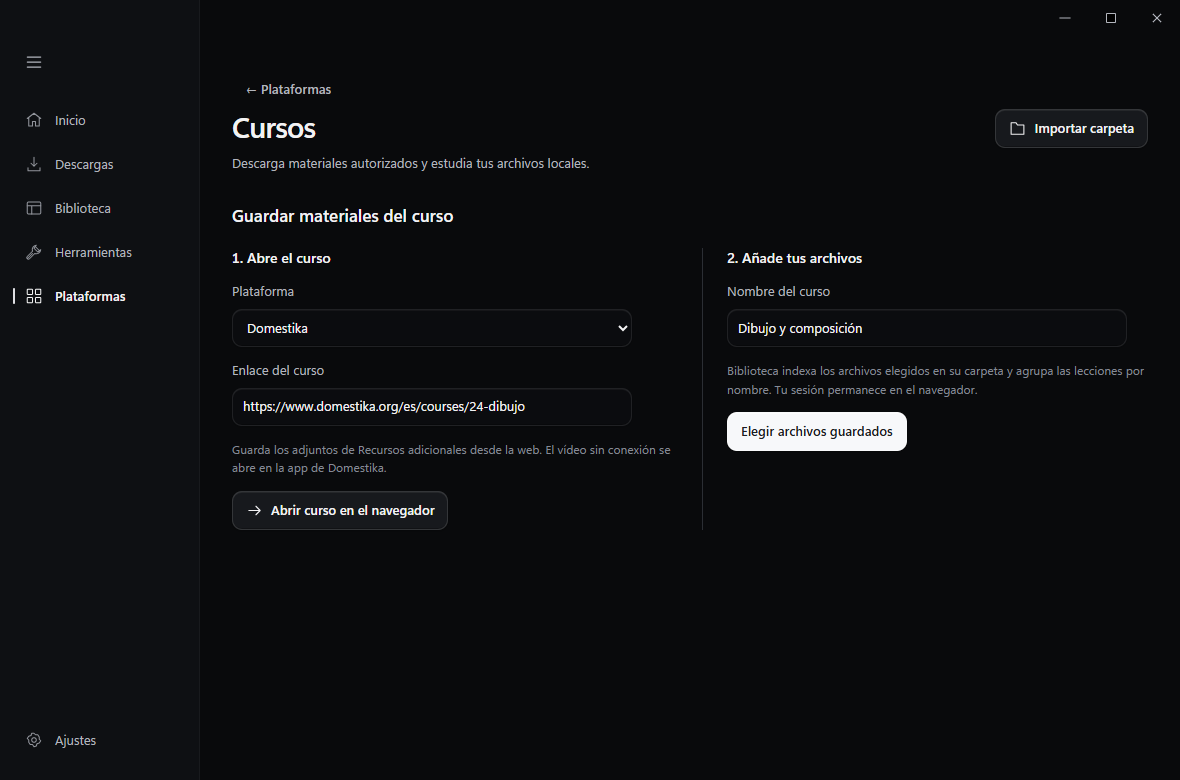
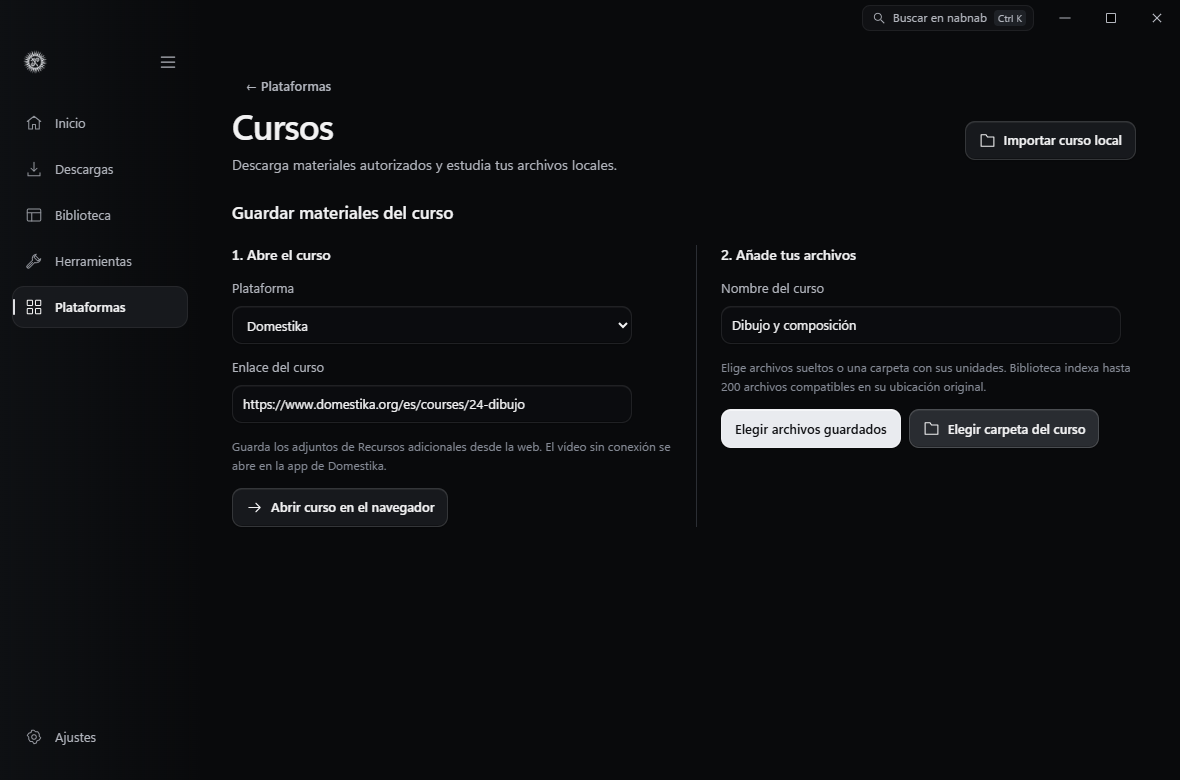
Import folders into linked courses

diff --git a/src/courses-ui.ts b/src/courses-ui.ts
@@ -121,10 +121,10 @@ export function createCoursesController(hooks: CourseHooks) {
     }
   }
 
-  async function importMaterials(source: BrowserCourseProvider, url: string, title: string) {
+  async function importMaterials(source: BrowserCourseProvider, url: string, title: string, mode: "files" | "folder" = "files") {
     let opened = false;
     await perform(async () => {
-      const course = await hooks.command<Course | null>("import_course_materials", { provider: source, url, title });
+      const course = await hooks.command<Course | null>("import_course_materials", { provider: source, url, title, folder: mode === "folder" });
       if (!course) return false;
       if (courseId !== course.id) {
         lessonId = course.sections[0]?.lessons[0]?.id ?? null;
@@ -135,7 +135,8 @@ export function createCoursesController(hooks: CourseHooks) {
       hooks.notify(t("Materiales añadidos al curso.", "Materials added to the course."), "success");
     });
     if (opened) focusCourseHeading();
-    else document.getElementById(courseId ? "course-add-materials" : "course-browser-import")?.focus({ preventScroll: true });
+    else document.getElementById(mode === "folder" ? "course-add-folder"
+      : courseId ? "course-add-materials" : "course-browser-import")?.focus({ preventScroll: true });
   }
 
   function browserForm(source: BrowserCourseProvider, platformField: string, linkField: string): string {
@@ -151,8 +152,11 @@ export function createCoursesController(hooks: CourseHooks) {
         <section>
           <h3>${t("2. Añade tus archivos", "2. Add your files")}</h3>
           <label>${t("Nombre del curso", "Course name")}<input id="course-browser-title" maxlength="240" required value="${h(browserTitle)}" autocomplete="off"></label>
-          <p class="field-note">${t("Biblioteca indexa los archivos elegidos en su carpeta y agrupa las lecciones por nombre. Tu sesión permanece en el navegador.", "Library indexes selected files in place and groups lessons by name. Your session stays in the browser.")}</p>
-          <button type="submit" id="course-browser-import" class="button primary" ${busy ? "disabled" : ""}>${busy ? t("Preparando…", "Preparing…") : t("Elegir archivos guardados", "Choose saved files")}</button>
+          <p class="field-note">${t("Elige archivos sueltos o una carpeta con sus unidades. Biblioteca indexa hasta 200 archivos compatibles en su ubicación original.", "Choose individual files or a folder with its units. Library indexes up to 200 supported files in place.")}</p>
+          <div class="button-group">
+            <button type="submit" id="course-browser-import" class="button primary" ${busy ? "disabled" : ""}>${busy ? t("Preparando…", "Preparing…") : t("Elegir archivos guardados", "Choose saved files")}</button>
+            ${action("course-add-folder", t("Elegir carpeta del curso", "Choose course folder"), "folder", "secondary", `id="course-add-folder" ${busy ? "disabled" : ""}`)}
+          </div>
         </section>
       </div>
     </form>`;
@@ -175,7 +179,7 @@ export function createCoursesController(hooks: CourseHooks) {
     const course = current();
     const platformField = `<label><span id="course-platform-label">${t("Plataforma", "Platform")}</span><select id="course-provider" aria-labelledby="course-platform-label">${courseProviders.map(([id, name]) => option(id, name, provider)).join("")}</select></label>`;
     const linkField = `<label>${t("Enlace del curso", "Course URL")}<input id="course-url" type="url" required value="${h(input)}" placeholder="https://…" autocomplete="off"></label>`;
-    if (!course) return `<div class="page-heading"><div><h1 id="course-heading" tabindex="-1">${t("Cursos", "Courses")}</h1><p>${t("Descarga materiales autorizados y estudia tus archivos locales.", "Download authorized materials and study your local files.")}</p></div>${action("course-import", t("Importar carpeta", "Import folder"), "folder", isBrowserProvider(provider) ? "secondary" : "primary", busy ? "disabled" : "")}</div>
+    if (!course) return `<div class="page-heading"><div><h1 id="course-heading" tabindex="-1">${t("Cursos", "Courses")}</h1><p>${t("Descarga materiales autorizados y estudia tus archivos locales.", "Download authorized materials and study your local files.")}</p></div>${action("course-import", t("Importar curso local", "Import local course"), "folder", isBrowserProvider(provider) ? "secondary" : "primary", busy ? "disabled" : "")}</div>
       ${isBrowserProvider(provider) ? browserForm(provider, platformField, linkField) : `<form id="course-open-online" class="settings-form" aria-busy="${busy}"><h2>${t("Abrir un curso con acceso autorizado", "Open an authorized course")}</h2>${platformField}${linkField}${provider !== "udemy" ? `<div class="form-grid"><label>${t("ID numérico del curso o producto", "Numeric course or product ID")}<input id="course-product-id" inputmode="numeric" required value="${h(productId)}"></label>${provider === "hotmart" ? `<label>${t("Identificador del club, slug", "Club identifier, slug")}<input id="course-slug" required value="${h(slug)}"></label>` : ""}</div>` : ""}<div class="form-grid"><label>${t("Máximo de lecciones a explorar", "Lesson exploration limit")}<input id="course-limit" type="number" min="1" max="1000" value="${limit}"></label><div class="button-group"><button type="submit" class="button secondary" ${busy ? "disabled" : ""}>${busy ? t("Explorando…", "Exploring…") : t("Explorar con mi sesión", "Explore with my session")}</button></div></div><p class="field-note">${provider === "udemy" ? t("Importa tu sesión en Ajustes.", "Import your session in Settings.") : t("Conecta un token de alumno de esta plataforma. El ID y el slug se encuentran en el enlace o los datos del curso.", "Connect a student token for this platform. The ID and slug are in the course link or course data.")} ${t("Solo se ofrecen archivos con una ruta de descarga autorizada. Reproducir una lección no implica permiso para guardarla.", "Only materials with an authorized download route are offered. Playback access does not imply permission to save a lesson.")}</p></form>`}
       ${provider === "hotmart" || provider === "kiwify" ? `<form id="course-token" class="settings-form"><h2>${t("Conexión de alumno", "Student connection")} · ${h(provider)}</h2><label>${t("Token de acceso autorizado", "Authorized access token")}<input id="course-token-secret" type="password" required autocomplete="off"></label><p class="field-note">${t("Se protege localmente. No se publica ni se transfiere a otra plataforma. La conexión no descarga contenido por sí sola.", "Stored protected locally. It is not published or sent to another platform. Connecting does not download content.")}</p><div class="button-group"><button type="submit" class="button secondary" ${busy ? "disabled" : ""}>${t("Guardar conexión", "Save connection")}</button>${action("course-token-remove", t("Eliminar conexión", "Remove connection"), undefined, "quiet", busy ? "disabled" : "")}</div></form>` : ""}
       ${courses.length ? `<div class="source-list">${courses.map(course => `<article class="source-row"><button class="media-open" data-action="course-open" data-id="${h(course.id)}"><span class="media-info"><strong>${h(course.title)}</strong><span>${h(course.provider === "local" ? t("Carpeta local", "Local folder") : courseProviderName(course.provider))} · ${lessonCount(course.sections.flatMap(section => section.lessons).length)}</span></span>${icon("arrow")}</button></article>`).join("")}</div>` : isBrowserProvider(provider) ? "" : `<div class="empty-state">${icon("library")}<h2>${t("Tu primer curso", "Your first course")}</h2><p>${t("Importa una carpeta con clases legítimamente guardadas o abre un curso al que tengas acceso.", "Import a folder of legitimately saved lessons or open a course you can access.")}</p></div>`}`;
@@ -185,7 +189,7 @@ export function createCoursesController(hooks: CourseHooks) {
     const lessons = course.sections.flatMap(section => section.lessons);
     const item = lessonMedia(lesson);
     const queueable = course.sections.flatMap(section => section.lessons).flatMap(lesson => lesson.assets).filter(asset => selected.has(asset.id) && available(asset));
-    return `<div class="page-heading"><div>${action("course-back", t("Todos los cursos", "All courses"), undefined, "quiet")}<h1 id="course-heading" tabindex="-1">${h(course.title)}</h1><p>${h(course.provider === "local" ? t("Archivos locales", "Local files") : courseProviderName(course.provider))} · ${lessonCount(lessons.length)}</p></div>${browserAssisted ? `<div class="button-group">${action("course-browser-open", t("Abrir curso en el navegador", "Open course in browser"), "arrow", "quiet", busy ? "disabled" : "")}${action("course-add-materials", t("Añadir archivos guardados", "Add saved files"), "add", "primary", `id="course-add-materials" ${busy ? "disabled" : ""}`)}</div>` : course.url ? action("course-refresh", t("Actualizar materiales", "Refresh materials"), "retry", "quiet", busy ? "disabled" : "") : ""}</div>
+    return `<div class="page-heading"><div>${action("course-back", t("Todos los cursos", "All courses"), undefined, "quiet")}<h1 id="course-heading" tabindex="-1">${h(course.title)}</h1><p>${h(course.provider === "local" ? t("Archivos locales", "Local files") : courseProviderName(course.provider))} · ${lessonCount(lessons.length)}</p></div>${browserAssisted ? `<div class="button-group">${action("course-browser-open", t("Abrir curso en el navegador", "Open course in browser"), "arrow", "quiet", busy ? "disabled" : "")}${action("course-add-folder", t("Añadir carpeta", "Add folder"), "folder", "secondary", `id="course-add-folder" ${busy ? "disabled" : ""}`)}${action("course-add-materials", t("Añadir archivos guardados", "Add saved files"), "add", "primary", `id="course-add-materials" ${busy ? "disabled" : ""}`)}</div>` : course.url ? action("course-refresh", t("Actualizar materiales", "Refresh materials"), "retry", "quiet", busy ? "disabled" : "") : ""}</div>
       ${localStudy ? "" : `<div class="selection-toolbar"><span>${queueable.length} ${t("materiales seleccionados", "materials selected")}</span>${action("course-queue", t("Añadir a la cola", "Add to queue"), "add", "primary", busy || !queueable.length ? "disabled" : "")}${action("course-clear", t("Quitar selección", "Clear selection"), undefined, "quiet")}</div>`}
       <div class="course-layout${browserAssisted ? " course-layout--browser" : ""}"><nav aria-label="${t("Lecciones del curso", "Course lessons")}" class="course-tree"><label class="search-control">${icon("search")}<input id="course-search" type="search" value="${h(query)}" placeholder="${t("Buscar lección", "Find lesson")}" aria-label="${t("Buscar lección", "Find lesson")}"></label>${course.sections.map(section => `<details ${section.lessons.some(lesson => lesson.id === lessonId) || !lessonId ? "open" : ""}><summary>${h(section.title)}</summary>${localStudy ? "" : action("course-select-section", t("Seleccionar materiales disponibles", "Select available materials"), undefined, "quiet", `data-id="${h(section.id)}"`)}<ul>${section.lessons.filter(lesson => lesson.title.toLocaleLowerCase().includes(query.toLocaleLowerCase())).map(lesson => `<li><button type="button" class="course-lesson" data-action="course-lesson" data-id="${h(lesson.id)}" ${lesson.id === lessonId ? 'aria-current="true"' : ""}><span>${h(lesson.title)}</span>${lesson.learned ? `<small>${t("Aprendida", "Learned")}</small>` : ""}</button></li>`).join("")}</ul></details>`).join("")}</nav><section class="course-study">${lesson ? `<div class="page-heading"><h2>${h(lesson.title)}</h2>${action("course-learned", lesson.learned ? t("Marcar pendiente de aprender", "Mark as not learned") : t("Marcar aprendida", "Mark as learned"), "check", "quiet", `aria-pressed="${lesson.learned}" ${busy ? "disabled" : ""}`)}</div>
       ${item ? lessonPlayback(item) : ""}
@@ -239,6 +243,10 @@ export function createCoursesController(hooks: CourseHooks) {
       }
       case "course-add-materials":
         if (course?.url && isBrowserProvider(course.provider)) await importMaterials(course.provider, course.url, course.title);
+        return true;
+      case "course-add-folder":
+        if (course?.url && isBrowserProvider(course.provider)) await importMaterials(course.provider, course.url, course.title, "folder");
+        else if (isBrowserProvider(provider) && element.closest("form")?.reportValidity()) await importMaterials(provider, input, browserTitle, "folder");
         return true;
       case "course-token-remove": await perform(async () => { await hooks.command("save_course_token", { provider, token: "", remove: true }); hooks.notify(t("Conexión eliminada. Los archivos se conservan.", "Connection removed. Local files are kept."), "success"); }); break;
       case "course-import": await perform(async () => { const course = await hooks.command<Course>("import_local_course"); courseId = course.id; lessonId = course.sections[0]?.lessons[0]?.id ?? null; hooks.notify(t("Curso local importado.", "Local course imported."), "success"); }); break;

diff --git a/src-tauri/src/course_browser.rs b/src-tauri/src/course_browser.rs
@@ -114,22 +114,36 @@ pub fn open_course_site(provider: String, url: String) -> Result<(), String> {
     crate::cloud_storage::browser(link.page.as_str())
 }
 
-fn index_material(path: &Path, link: &CourseLink) -> Result<library::LibraryItem, String> {
+fn is_course_attachment(path: &Path) -> bool {
     let extension = path
         .extension()
         .and_then(|value| value.to_str())
         .unwrap_or_default()
         .to_ascii_lowercase();
-    if matches!(
+    matches!(
         extension.as_str(),
         "zip" | "7z" | "rar" | "psd" | "ai" | "svg" | "abr" | "procreate"
-    ) {
+    )
+}
+
+fn index_material(path: &Path, link: &CourseLink) -> Result<library::LibraryItem, String> {
+    if is_course_attachment(path) {
         let mut item = library::index_file(path)?;
         item.source = Some(link.page.origin().ascii_serialization());
         Ok(item)
     } else {
         library::index(path, None, Some(link.page.to_string()), None)
     }
+}
+
+fn index_materials(paths: &[PathBuf], link: &CourseLink) -> Result<Vec<library::LibraryItem>, String> {
+    let paths = library::files_for_import(paths, |path| {
+        library::extension_kind(path).is_some() || is_course_attachment(path)
+    })?;
+    if paths.is_empty() || paths.len() > 200 {
+        return Err("Choose between 1 and 200 supported course files.".into());
+    }
+    paths.iter().map(|path| index_material(path, link)).collect()
 }
 
 fn path_identity(path: &Path) -> String {
@@ -265,6 +279,7 @@ pub async fn import_course_materials(
     provider: String,
     url: String,
     title: String,
+    folder: Option<bool>,
 ) -> Result<Option<Course>, String> {
     let link = CourseLink::selected(&provider, &url)?;
     let title = label(&title, 240);
@@ -272,10 +287,17 @@ pub async fn import_course_materials(
         return Err("Enter the name to use for this course.".into());
     }
     let picked = tauri::async_runtime::spawn_blocking(move || {
-        app.dialog()
-            .file()
-            .set_title("Choose authorized course files")
-            .blocking_pick_files()
+        let dialog = app.dialog().file();
+        if folder.unwrap_or(false) {
+            dialog
+                .set_title("Choose an authorized course folder")
+                .blocking_pick_folder()
+                .map(|folder| vec![folder])
+        } else {
+            dialog
+                .set_title("Choose authorized course files")
+                .blocking_pick_files()
+        }
     })
     .await
     .map_err(|_| "The course file picker failed.")?;
@@ -293,10 +315,7 @@ pub async fn import_course_materials(
         })
         .collect::<Result<Vec<PathBuf>, _>>()?;
     let (link, selected) = tauri::async_runtime::spawn_blocking(move || {
-        let selected = paths
-            .iter()
-            .map(|path| index_material(path, &link))
-            .collect::<Result<Vec<_>, _>>()?;
+        let selected = index_materials(&paths, &link)?;
         Ok::<_, String>((link, selected))
     })
     .await
@@ -373,10 +392,7 @@ mod tests {
         let original =
             CourseLink::selected("domestika", "https://domestika.org/en/courses/24-drawing")
                 .unwrap();
-        let selected = [&later, &first]
-            .iter()
-            .map(|path| index_material(path, &original).unwrap())
-            .collect();
+        let selected = index_materials(&[later.clone(), first.clone()], &original).unwrap();
         let saved = import_selected(&mut repo, original, "Drawing".into(), selected).unwrap();
         let lesson = &mut repo.data.courses[0].sections[0].lessons[0];
         assert_eq!(lesson.title, "2 Practice");
@@ -393,10 +409,12 @@ mod tests {
             "https://www.domestika.org/es/courses/24-dibujo",
         )
         .unwrap();
-        let selected = [&first, &attachment]
-            .iter()
-            .map(|path| index_material(path, &updated).unwrap())
-            .collect();
+        let nested = folder.join("11 Extras");
+        std::fs::create_dir_all(&nested).unwrap();
+        std::fs::write(nested.join("1 Notes.txt"), b"Course notes").unwrap();
+        std::fs::write(nested.join("ignore.exe"), b"Unsupported").unwrap();
+        let selected = index_materials(&[folder], &updated).unwrap();
+        assert_eq!(selected.len(), 4);
         let merged = import_selected(&mut repo, updated, "Dibujo".into(), selected).unwrap();
         assert_eq!(merged.id, saved.id);
         assert_eq!(merged.title, "Drawing");
@@ -407,7 +425,9 @@ mod tests {
         assert!(lesson.learned);
         assert_eq!(lesson.notes[0].text, "Keep this");
         assert_eq!(lesson.assets.len(), 2);
-        assert_eq!(repo.data.library.len(), 3);
+        assert_eq!(merged.sections[1].title, "11 Extras");
+        assert_eq!(merged.sections[1].lessons[0].title, "1 Notes");
+        assert_eq!(repo.data.library.len(), 4);
         assert_eq!(repo.data.courses.len(), 1);
         drop(repo);
         let root = std::fs::canonicalize(&root).unwrap();

diff --git a/src-tauri/src/library.rs b/src-tauri/src/library.rs
@@ -36,7 +36,7 @@ pub struct LibraryItem {
     pub details: crate::library_features::LibraryDetails,
 }
 
-fn extension_kind(path: &Path) -> Option<&'static str> {
+pub(crate) fn extension_kind(path: &Path) -> Option<&'static str> {
     match path.extension()?.to_str()?.to_ascii_lowercase().as_str() {
         "mp4" | "mkv" | "webm" | "avi" | "mov" | "m4v" | "mpeg" | "mpg" | "ts" | "mts" | "m2ts"
         | "3gp" | "ogv" | "mxf" => Some("video"),
@@ -220,6 +220,7 @@ fn collect_files(
     boundary: &Path,
     files: &mut Vec<PathBuf>,
     count: &mut usize,
+    accepts: &impl Fn(&Path) -> bool,
 ) -> Result<(), String> {
     let mut pending = vec![path.to_owned()];
     while let Some(path) = pending.pop() {
@@ -247,14 +248,17 @@ fn collect_files(
                 }
                 pending.push(entry.map_err(|e| e.to_string())?.path());
             }
-        } else if metadata.is_file() && extension_kind(&canonical).is_some() {
+        } else if metadata.is_file() && accepts(&canonical) {
             files.push(canonical);
         }
     }
     Ok(())
 }
 
-pub fn import_paths(repository: &mut Repository, paths: &[PathBuf]) -> Result<usize, String> {
+pub(crate) fn files_for_import(
+    paths: &[PathBuf],
+    accepts: impl Fn(&Path) -> bool,
+) -> Result<Vec<PathBuf>, String> {
     if paths.len() > MAX_IMPORT_ENTRIES {
         return Err("Import at most 10,000 entries at a time.".into());
     }
@@ -262,11 +266,16 @@ pub fn import_paths(repository: &mut Repository, paths: &[PathBuf]) -> Result<us
     let mut count = 0;
     for path in paths {
         let canonical = authorized_path(path)?;
-        if canonical.is_file() && extension_kind(&canonical).is_none() {
+        if canonical.is_file() && !accepts(&canonical) {
             return Err("This file type cannot be added to the library.".into());
         }
-        collect_files(&canonical, &canonical, &mut files, &mut count)?;
+        collect_files(&canonical, &canonical, &mut files, &mut count, &accepts)?;
     }
+    Ok(files)
+}
+
+pub fn import_paths(repository: &mut Repository, paths: &[PathBuf]) -> Result<usize, String> {
+    let files = files_for_import(paths, |path| extension_kind(path).is_some())?;
     let mut known: HashSet<_> = repository
         .data
         .library

diff --git a/docs/COURSES.md b/docs/COURSES.md
@@ -18,9 +18,9 @@ Los adjuntos PDF/EPUB dependen de la lectura y clasificación documental de la b
 
 ## Materiales de Rocketseat, Coursera, Domestika y Skillshare
 
-Abre **Plataformas → Cursos**, elige el proveedor y pega el enlace del curso. También puedes pegar el enlace en Inicio. Abre el curso en el navegador y elige allí el perfil o la sesión autorizada. Guarda el material desde los controles que la plataforma haya habilitado. En nabnab, indica el nombre del curso y pulsa **Elegir archivos guardados**. El selector admite hasta 200 archivos por operación.
+Abre **Plataformas → Cursos**, elige el proveedor y pega el enlace del curso. También puedes pegar el enlace en Inicio. Abre el curso en el navegador y elige allí el perfil o la sesión autorizada. Guarda el material desde los controles que la plataforma haya habilitado. En nabnab, indica el nombre del curso y pulsa **Elegir archivos guardados** o **Elegir carpeta del curso**. Puedes importar hasta 200 archivos compatibles por operación.
 
-La biblioteca indexa los archivos elegidos en su ubicación actual. Para conservar el orden del curso, guarda cada unidad en una carpeta numerada y numera los nombres de las lecciones. Los archivos con el mismo nombre base en la misma carpeta aparecen juntos, por ejemplo, un vídeo y su subtítulo. Los ZIP, RAR, 7z y archivos de diseño admitidos quedan como adjuntos para consultar en su carpeta. Al añadir archivos al mismo curso se conservan las notas, el estado aprendido y la posición asociada a los archivos ya indexados.
+La biblioteca indexa los archivos en su ubicación actual. Al elegir una carpeta, incluye las subcarpetas y se detiene si encuentra un enlace simbólico o una unión de directorios. Para conservar el orden del curso, guarda cada unidad en una carpeta numerada y numera los nombres de las lecciones. Los archivos con el mismo nombre base en la misma carpeta aparecen juntos, por ejemplo, un vídeo y su subtítulo. Los ZIP, RAR, 7z y archivos de diseño admitidos quedan como adjuntos para consultar en su carpeta. **Añadir carpeta** y **Añadir archivos guardados** amplían el curso existente y conservan las notas, el estado aprendido y la posición asociada a los archivos ya indexados.
 
 | Plataforma | Vía disponible |
 | --- | --- |
